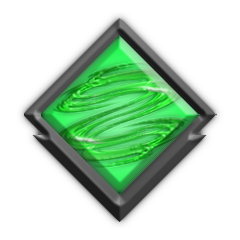
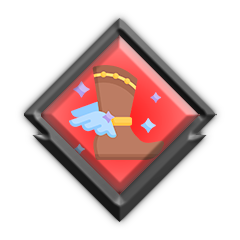
4.0

Changed region(s): [[0.175, 0.1458, 0.8458, 0.8167]]

diff --git a/hero_JS/skill_tree_bonus_about.js b/hero_JS/skill_tree_bonus_about.js
@@ -2,15 +2,15 @@ var skill_tree_bonus_about = [
     [   //  Берсерк
         [   //  Ветка героя
             "Здоровье",
-            "Регенерация здоровья", "Мана",
-            "Защита", "Урон", "Регенерация маны", "Сопротивление магии",
-            "Скорость атаки", "Сопротивление эффектам",
-            "Скорость", "Уворот", "11", "12",
-            "Дальность обзора (день)", "Дальность обзора (ночь)", "", "16", "17",
-            "18", "19", "20",
-            "21", "22", "23", "24", "25",
-            "26", "", "28", "29", "30", "", "32",
-            "33", "34", "35", "", "37", "38", "39",
+            "Регенерация здоровья", "Защита",
+            "Уворот", "Сопротивление магии", "Эффективность лечения", "Урон",
+            "Сопротивление эффектам", "Скорость атаки",
+            "Скорость", "Урон заклинаний", "Шанс крита", "Вампиризм",
+            "Дальность обзора (день)", "Дальность обзора (ночь)", "", "Крит урон", "Магический вампиризм",
+            "", "Мана", "Урон способности",
+            "21", "22", "Регенерация маны", "Манакост способности", "Перезарядка способности",
+            "26", "", "28", "Эффективность восстановления маны", "Длительность действия", "", "32",
+            "33", "34", "35", "", "Дальность применения", "38", "39",
             "40", "41", "42", "43", "44", "45"
         ],
         [   //  Ветка 1-го навыка
@@ -351,17 +351,17 @@ var skill_tree_bonus_about = [
             "40", "41", "42", "43", "44", "45"
         ],
         [   //  Ветка 2-го навыка
-            "0",
-            "1", "2",
-            "3", "4", "5", "6",
-            "7", "8",
-            "9", "10", "11", "12",
-            "13", "14", "", "16", "17",
-            "18", "19", "20",
-            "21", "", "23", "", "25",
-            "", "", "28", "29", "30", "", "",
-            "33", "34", "35", "", "37", "38", "39",
-            "40", "41", "", "", "44", "45"
+            "Манакост способности",
+            "Урон способности", "Перезарядка способности",
+            "Дальность применения", "Урон", "Манакост способности", "Урон способности",
+            "Скорость атаки", "Урон способности",
+            "Уворот", "Манакост способности", "Магический вампиризм", "Скорость атаки",
+            "Здоровье", "Регенерация маны", "", "Магический вампиризм", "Шанс крита",
+            "Урон", "Урон способности", "Скорость атаки",
+            "Крит урон", "", "Перезарядка способности", "", "Шанс крита",
+            "", "", "Регенерация здоровья", "Регенерация маны", "Уворот", "", "",
+            "Магический вампиризм", "", "Эффективность лечения", "", "Сопротивление эффектам", "", "Скорость",
+            "Вампиризм", "", "", "", "", "Вампиризм"
         ],
         [   //  Ветка 3-го навыка
             "",

diff --git a/hero_JS/skill_tree_about.js b/hero_JS/skill_tree_about.js
@@ -360,8 +360,8 @@ var skill_tree_about = [
             "", "", "",
             "", "Стрела игнорирует на 15% защиты больше", "", "Увеличивает шанс срабатывания замедления на 10%", "",
             "Стрела игнорирует на 15% защиты больше", "Увеличивает наносимый способностью урон и дальность полёта стрелы на 100 ед.", "", "", "", "Запрещает применять заклинания под действием замедления", "Увеличивает замедление на 10%",
-            "", "", "", "Увеличивает дальность полёта стрелы на 200 ед., а ширину выстрела на 40 ед.", "", "", "",
-            "", "", "Стрела игнорирует на 20% защиты больше", "Увеличивает замедление на 15%", "", ""
+            "", "Уменьшает подготовку перед выстрелом на 0.25 секунд", "", "Увеличивает дальность полёта стрелы на 200 ед., а ширину выстрела на 40 ед.", "", "Увеличивает длительность замедления на 1 секунду", "",
+            "", "Уменьшает подготовку перед выстрелом на 0.35 секунд", "Стрела игнорирует на 20% защиты больше", "Увеличивает замедление на 15%", "Увеличивает длительность замедления на 1.2 секунды", ""
         ],
         [   //  Ветка 3-го навыка
                     "",

diff --git a/hero_JS/skill_tree_base_attribute.js b/hero_JS/skill_tree_base_attribute.js
@@ -15,14 +15,14 @@ var skill_tree_attribute_base_value = [
 var skill_tree_attribute_name = [
     "Крепкое здоровье", "Регенерация", "Бутыль маны", "Восстановление", "Крепкая рука",
     "Вихрь", "Прочная броня", "Перенаправление", "Магические знания", "Скорость", 
-    "Орлиный взор", "Око ночи", "Проворство", "Мощь", "Скрытый клинок", 
+    "Орлиный взор", "Око ночи", "Проворство", "Мощь", "Точно в цель", 
     "Фолиант знаний", "Клыки вампира", "Поглощение", "Сила жизни", "Фонтан маны", "По кирпичикам", 
     "Ускоренные чары", "Эффективность", "Вспышка магии", "Долгосрочный договор", "Далёкие поля"
 ];
 var skill_tree_attribute_images = [
     "hp", "hp_regeneration", "mana", "mana_regeneration", "damage",
-    "attack_speed", "defense", "magic_defense", "status_defense", "speed",
-    "vision", "vision", "dodge", "", "",
-    "", "", "", "", "", "",
-    "cd_reduction", "", "", "", ""
+    "attack_speed", "phisical_defense", "magic_defense", "status_defense", "speed",
+    "day_vision", "night_vision", "dodge", "critical_damage", "critical_chance",
+    "all_spells_damage", "phisical_vampire", "magic_vampire", "heal_efficiency", "mana_regeneration_efficiency", "building_damage",
+    "cd_reduction", "mana_reduction", "spell_damage", "spell_duration", "cast_range"
 ];

diff --git a/hero_JS/skill_tree_name.js b/hero_JS/skill_tree_name.js
@@ -360,8 +360,8 @@ var skill_tree_name = [
             "18", "19", "20",
             "21", "В яблочко", "23", "Ловкость", "25",
             "В яблочко", "Сильные руки", "28", "29", "30", "Яд антимагии", "Эффективность",
-            "33", "34", "35", "Мастерство лучника", "37", "Продолжительный яд", "39",
-            "40", "41", "В яблочко", "Эффективность", "Продолжительный яд", "45"
+            "33", "Самый быстрый лук", "35", "Мастерство лучника", "37", "Продолжительный яд", "39",
+            "40", "Самый быстрый лук", "В яблочко", "Эффективность", "Продолжительный яд", "45"
         ],
         [   //  Ветка 3-го навыка
             "0",

diff --git a/hero_JS/skill_tree_bonus.js b/hero_JS/skill_tree_bonus.js
@@ -334,8 +334,8 @@ var skill_tree_bonus= [
             "18", "19", "20",
             "21", "", "23", "24", "25",
             "", "", "28", "29", "30", "", "32",
-            "", "+30", "35", "", "37", "38", "39",
-            "", "+40", "", "43", "44", "45"
+            "", "+30", "35", "", "37", "", "39",
+            "", "+40", "", "43", "", "45"
         ],
         [   //  Ветка 1-го навыка
             "0",
@@ -360,8 +360,8 @@ var skill_tree_bonus= [
             "18", "19", "20",
             "21", "", "23", "", "25",
             "", "", "28", "29", "30", "", "",
-            "33", "34", "35", "", "37", "38", "39",
-            "40", "41", "", "", "44", "45"
+            "33", "", "35", "", "37", "", "39",
+            "40", "", "", "", "", "45"
         ],
         [   //  Ветка 3-го навыка
             "",
